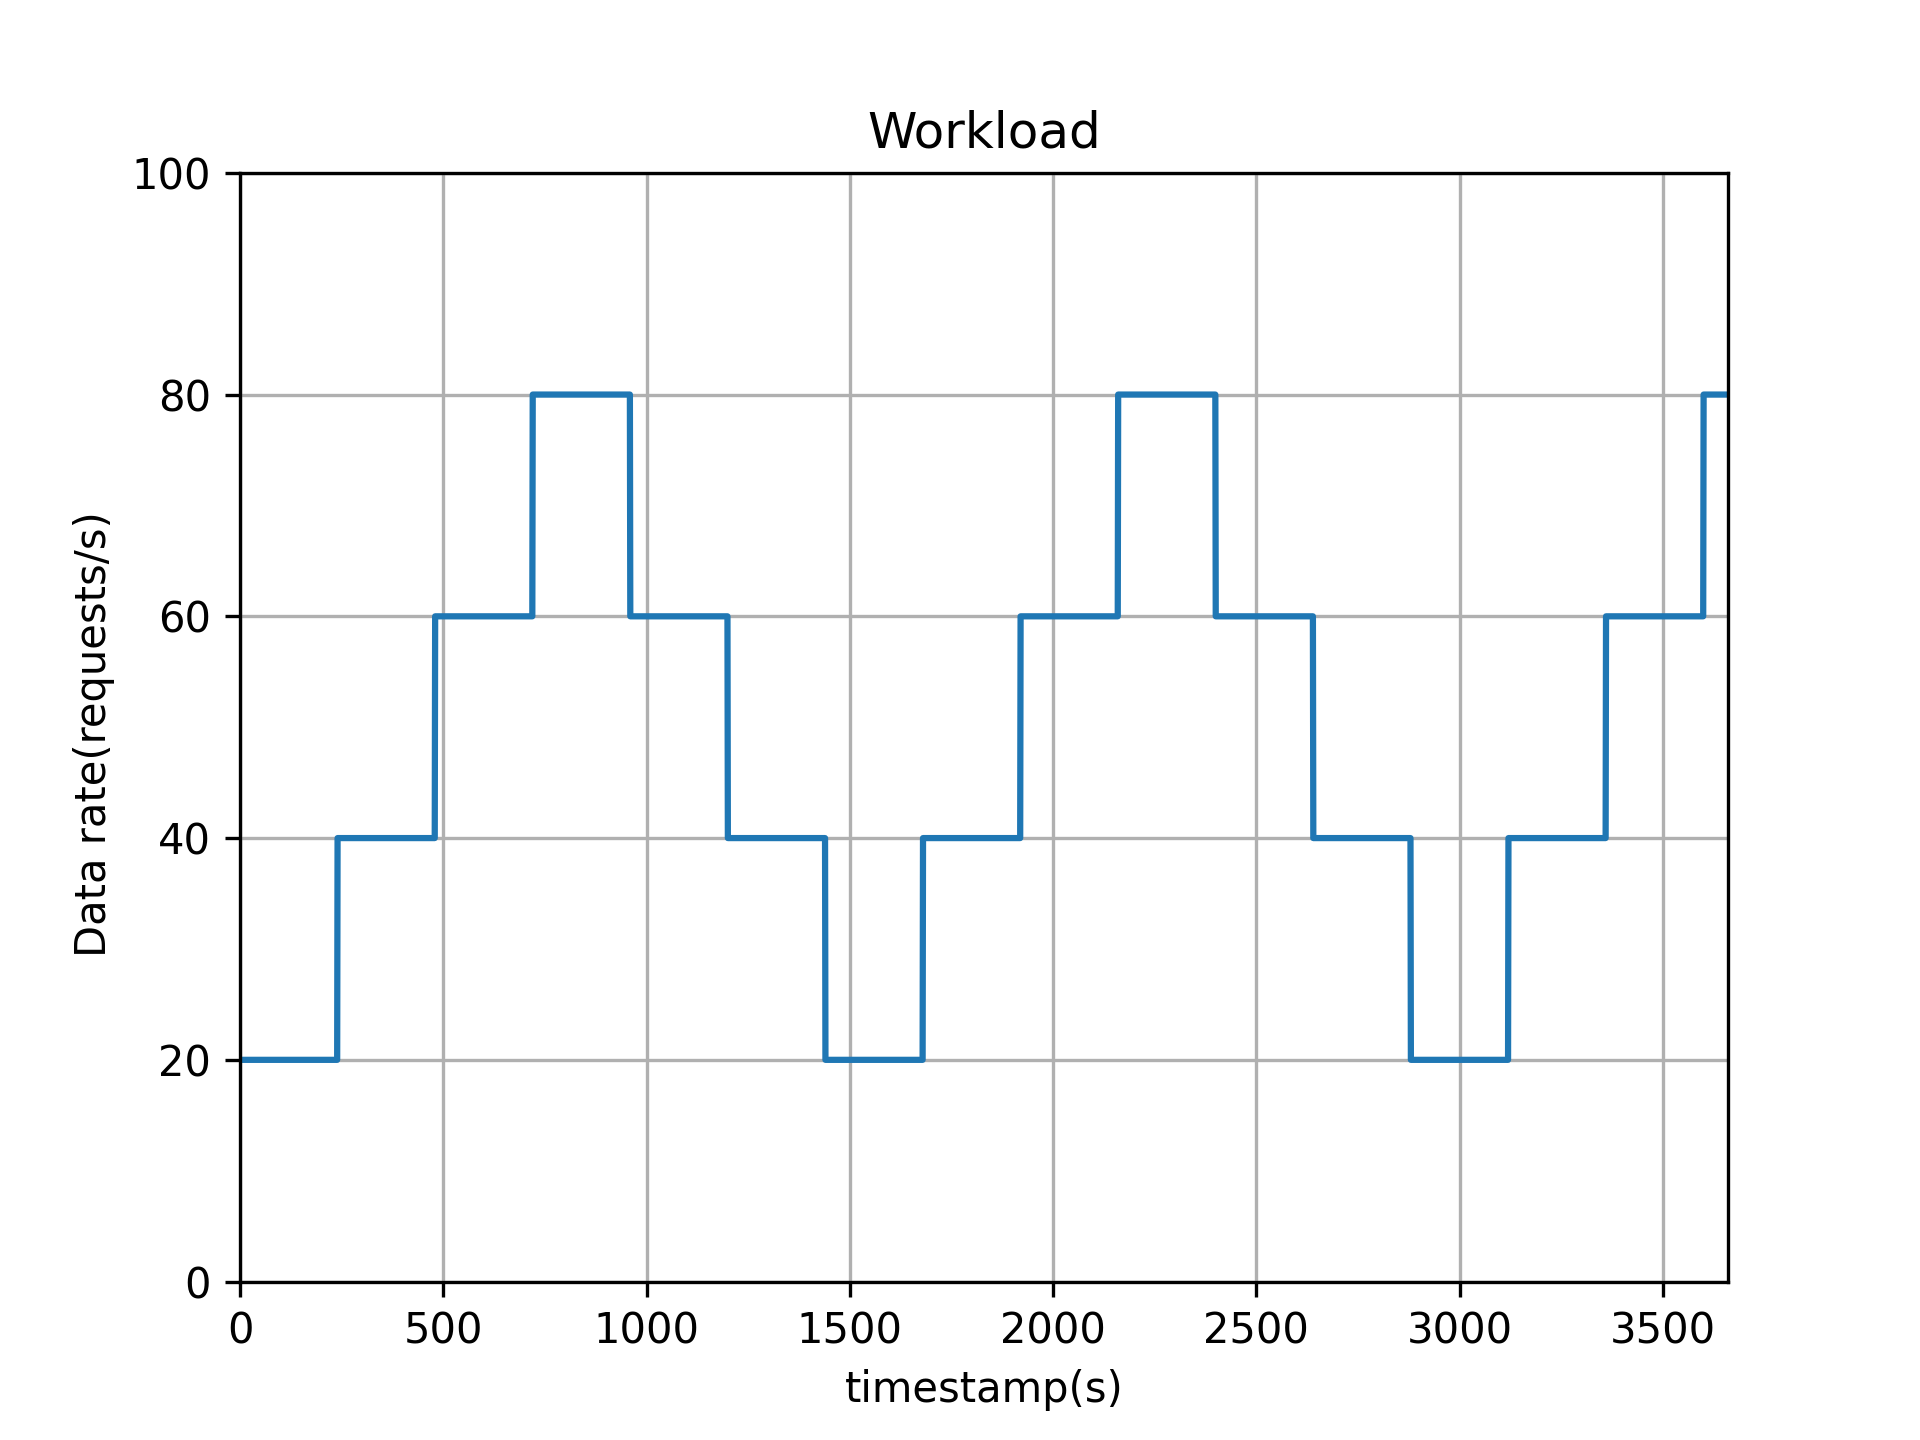
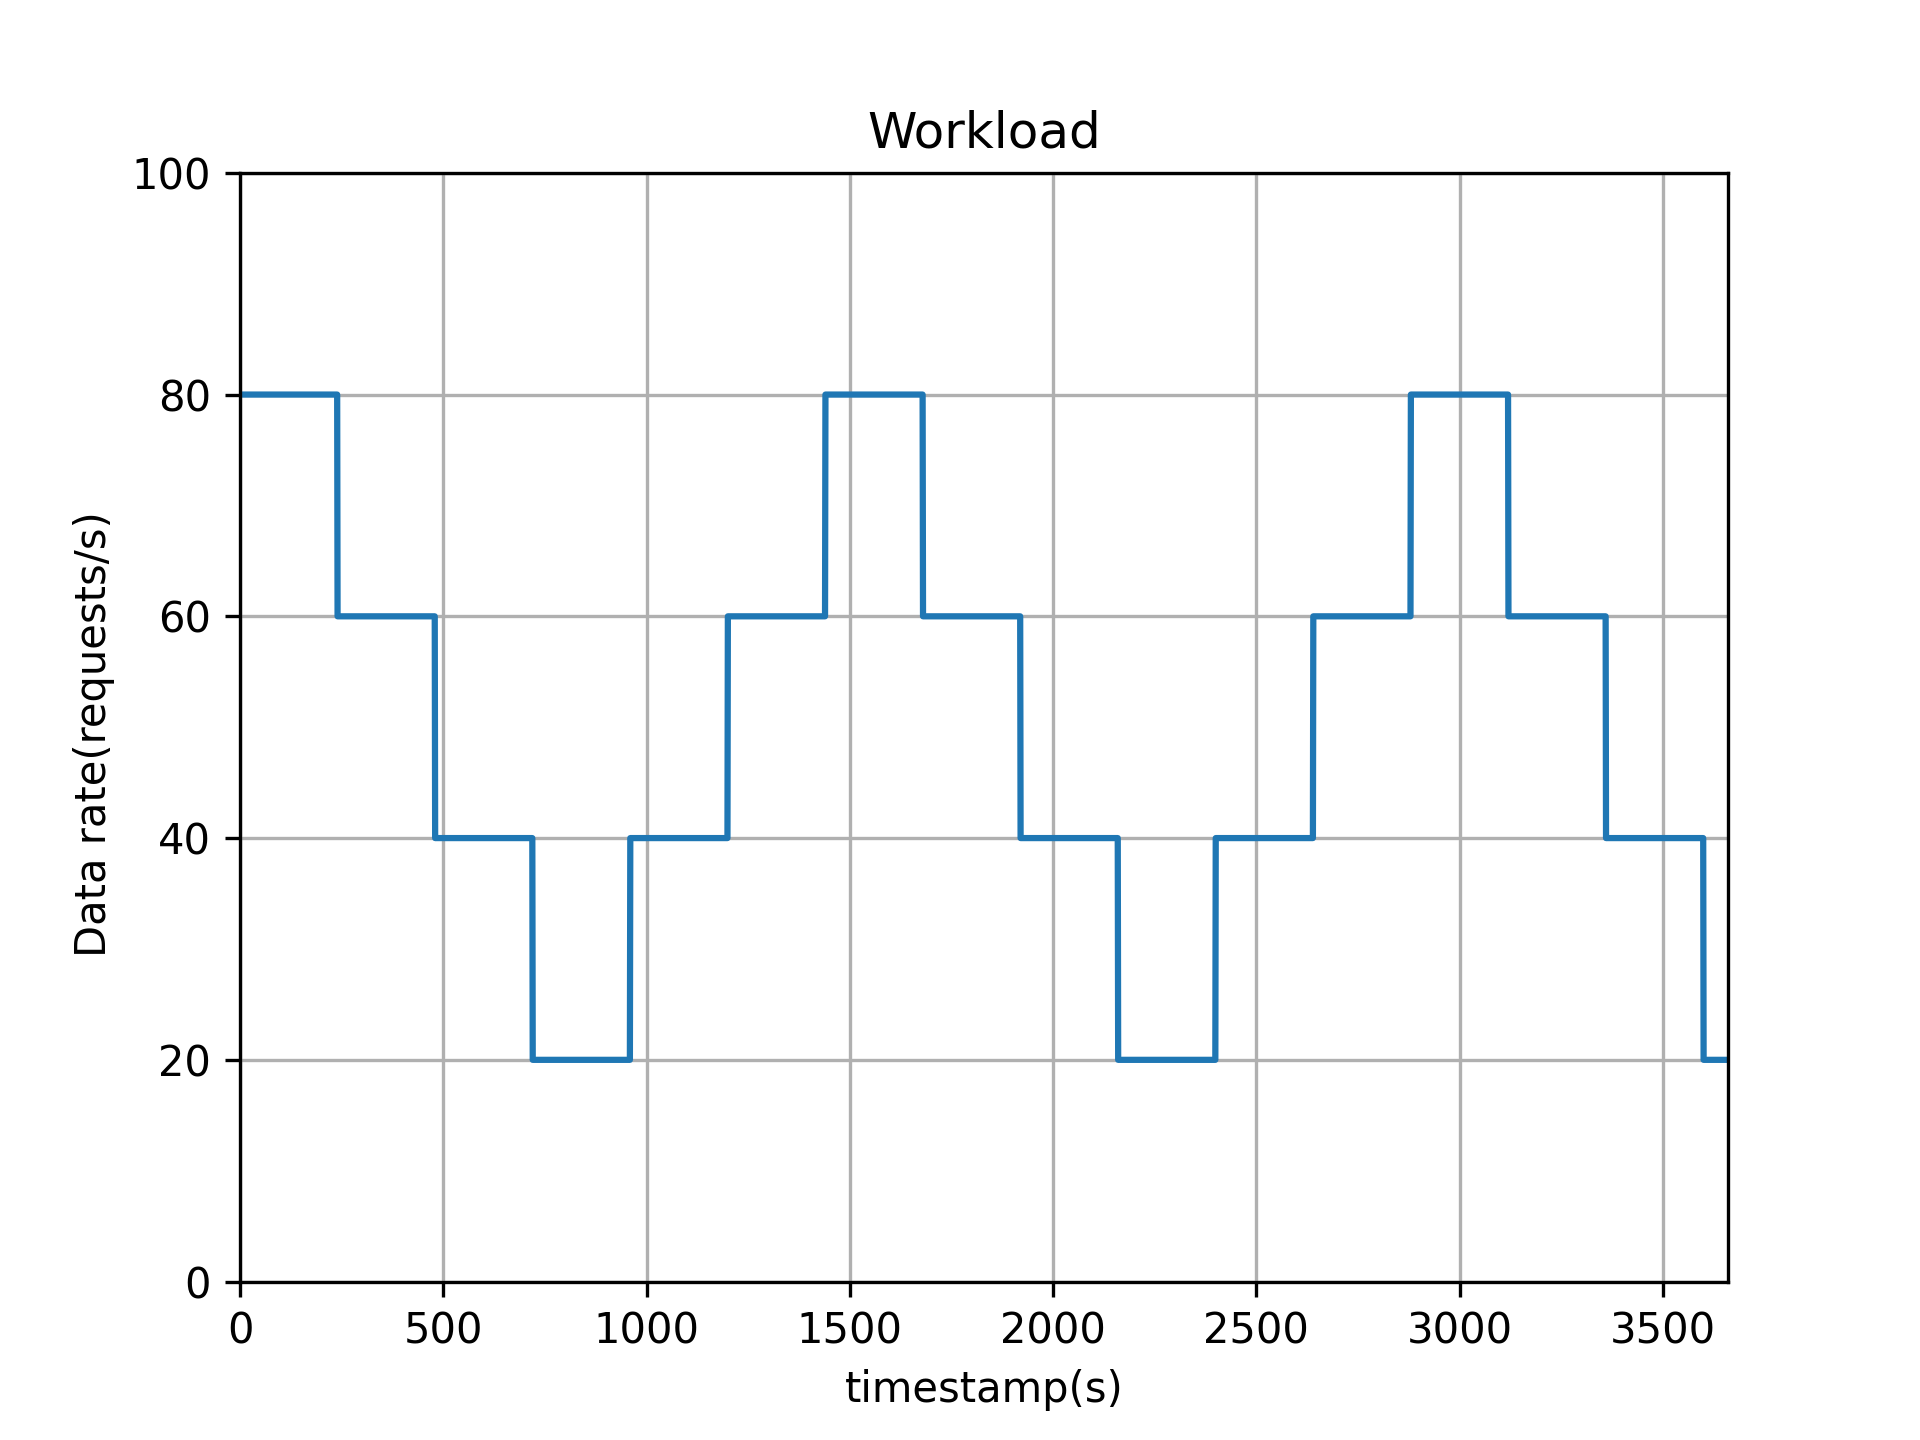
add Readme

diff --git a/matplot_paper/matplot_trajectory_threshold.py b/matplot_paper/matplot_trajectory_threshold.py
@@ -76,6 +76,70 @@ def parse(p):
 # Plot --------------------------------------
 matplotlib.rcParams.update({'font.size': 15})
 # Plot --------------------------------------
+def fig_combined_all(x, y2, y1, y3, y4, service_name):
+    # Create a figure with two subplots
+    fig, (ax4, ax3, ax2) = plt.subplots(3, 1, figsize=(10, 12), sharex=True)
+
+    ax1 = ax2.twinx()  # 在同一個 Figure 上建立第一個軸 ax1 (共享 x 軸)
+
+    line_replicas = ax2.plot(x, y1, color="green", linestyle="-.")[0]  # 在第二個軸上繪製綠色的 Replicas 圖形
+    line_cpus = ax1.plot(x, y2, color="blue", linestyle="--")[0]  # 在第一個軸上繪製藍色的 Cpus 圖形
+
+    ax2.set_xlabel("step", )  # 設定 x 軸標籤
+    ax2.set_ylabel("Replicas", labelpad=30)  # 設定第二個軸的 y 軸標籤
+    ax1.set_ylabel("Cpus",)  # 設定第一個軸的 y 軸標籤
+
+    ax2.set_xlim(0, total_episodes * step_per_episodes)  # 設定 x 軸範圍
+    ax2.set_ylim(0, 3.5)  # 設定第二個軸的 y 軸範圍
+    ax1.set_ylim(0, 1.1)  # 設定第一個軸的 y 軸範圍
+    ax1.set_yticks([0, 0.2, 0.4, 0.6, 0.8, 1.0])
+    ax2.set_yticks([0, 1, 2, 3])
+
+
+    line_replicas_color = line_replicas.get_color()
+    line_replicas_style = line_replicas.get_linestyle()
+    line_cpus_color = line_cpus.get_color()
+    line_cpus_style = line_cpus.get_linestyle()
+
+    # 建立線條圖示
+    replicas_legend = mlines.Line2D([], [], color=line_replicas_color, linestyle=line_replicas_style, label='Replicas')
+    cpus_legend = mlines.Line2D([], [], color=line_cpus_color, linestyle=line_cpus_style, label='Cpus')
+    # ax2.set_title(service_name, pad=20)
+    # Add legends to the first subplot (ax1)
+    ax2.legend(handles=[replicas_legend, cpus_legend], loc='upper center', fontsize=12, ncol=2, bbox_to_anchor=(0.5, 1.2))
+
+
+    # ------------------------------------------------
+    # Plot Cpu utilization on the second subplot (ax3)
+    ax3.plot(x, y3, color='royalblue')
+    ax3.fill_between(x, 0, y3, color='royalblue')
+    ax3.set_xlabel('Step')
+    ax3.set_ylabel('Cpu utilization(%)', labelpad=10)
+    ax3.set_ylim(0, 110)
+    ax3.set_yticks([0, 25, 50, 75, 100])
+
+    avg = statistics.mean(y3)
+    ax3.set_title(service_name + " Avg : " + str(avg), pad=20)
+    # -----------------------------------------------
+    # Plot additional data on the fourth subplot (ax4)
+    ax4.plot(x, y4, color='purple')
+    ax4.fill_between(x, 0, y4, color="purple")
+    ax4.set_ylabel("Response time(ms)", labelpad=20)
+    ax4.set_ylim(0, 50)  # Set y-axis range for the fourth subplot
+    ax4.set_yticks([0, 10, 20, 30, 40, 50])
+    ax4.set_xlabel('Step')
+
+    avg = statistics.mean(y4)
+    ax4.set_title(service_name + " Avg : " + str(avg), pad=20)
+    if service_name == "First_level_mn1":
+        Rmax = Rmax_mn1
+    else:
+        Rmax = Rmax_mn2
+    ax4.axhline(y=Rmax, color='r', linestyle='--')
+
+    plt.tight_layout()
+    plt.savefig(tmp_dir + service_name + "_Combined_all.png", dpi=300)
+    plt.show()
 def fig_add_Cpus_Replicas(x, y2, y1, service_name):
     fig, ax2 = plt.subplots(figsize=(10, 4))  # 建立一個 Figure 和第二個軸 ax2
     ax1 = ax2.twinx()  # 在同一個 Figure 上建立第一個軸 ax1 (共享 x 軸)
@@ -315,7 +379,7 @@ def parse_episods_data(episods_data, service_name):
     fig_add_Cpu_utilization(step, cpu_utilization, cpu_utilization_, service_name)
     fig_add_Resource_use(step, resource_use, resource_use_, service_name, tmp_dir)
     fig_add_reward(step, reward, reward_, service_name)
-
+    fig_combined_all(step, cpus, replicas, cpu_utilization, response_times, service_name)
 
 tmp_count = 0
 for p in path_list:

diff --git a/MPDQN.py b/MPDQN.py
@@ -19,7 +19,7 @@ data_rate = 20    # if not use_tm
 use_tm = 1  # if use_tm
 tm_path = 'request/request15.txt'  # traffic path
 # Warning !!!need to modify pdqn_v1.py loss_result_dir also
-result_dir = "./mpdqn_result/result3/evaluate1/"
+result_dir = "./pdqn_result/result3/evaluate2/"
 ## initial
 request_num = []
 # timestamp    :  0, 1, 2, , ..., 61, ..., 3601
@@ -37,6 +37,7 @@ RFID = 0  # oneM2M resource name  (Need different)
 event_mn1 = threading.Event()
 event_mn2 = threading.Event()
 event_timestamp_Ccontrol = threading.Event()
+event_monitor = threading.Event()
 
 # Need modify ip if ip change
 ip = "192.168.99.128"  # app_mn1
@@ -62,7 +63,7 @@ total_episodes = 16   # Training_episodes
 if_test = True
 if if_test:
     total_episodes = 1  # Testing_episodes
-
+monitor_period = 60
 multipass = True  # False : PDQN  / Ture: MPDQN
 
 # Exploration parameters
@@ -275,6 +276,7 @@ class Env:
         event.set()
 
         time.sleep(55)  # wait for monitor ture value
+        # event_monitor.wait()
 
         response_time_list = []
         # self.cpu_utilization = self.get_cpu_utilization()
@@ -424,6 +426,7 @@ def send_request(sensors, request_num, total_episodes):
     global change, send_finish, reset_complete
     global timestamp, use_tm, RFID
     error = 0
+    # event_monitor.clear()
     for episode in range(total_episodes):
         timestamp = 0
         print("episode: ", episode+1)
@@ -438,6 +441,9 @@ def send_request(sensors, request_num, total_episodes):
             # print('timestamp: ', timestamp)
             event_mn1.clear()  # set flag to false
             event_mn2.clear()
+            # if ((timestamp + 6) % monitor_period == 0):
+            #     event_monitor.set()
+            # event_monitor.clear()
             if ((timestamp) % 60) == 0 and timestamp!=0 :  # every 60s scaling
                 print("wait mn1 mn2 step and service scaling ...")
                 event_mn1.wait()  # if flag == false : wait, else if flag == True: continue

diff --git a/matplot_trajectory_MPDQN.py b/matplot_trajectory_MPDQN.py
@@ -15,13 +15,13 @@ total_episodes = 16
 step_per_episodes = 60
 
 # evaluation
-if_evaluation = 0
+if_evaluation = 1
 if if_evaluation:
     total_episodes = 1
 # tmp_str = "result2/result_cpu" # result_1016/tm1
 #tmp_dir = "pdqn_result/result2"
 # tmp_dir = "offline/database4"
-tmp_dir = "mpdqn_result/result/"
+tmp_dir = "mpdqn_result/result3/evaluate1/"
 path1 = tmp_dir + "/app_mn1_trajectory.txt"
 path2 = tmp_dir + "/app_mn2_trajectory.txt"
 

diff --git a/matplot_paper/matplot_trajectory_MPDQN.py b/matplot_paper/matplot_trajectory_MPDQN.py
@@ -23,7 +23,7 @@ if if_evaluation:
 # tmp_str = "result2/result_cpu" # result_1016/tm1
 #tmp_dir = "pdqn_result/result2"
 # tmp_dir = "offline/database4"
-tmp_dir = "/home/user/MPDQN-Scalable_OneM2M_RL/mpdqn_result/result/evaluate2/"
+tmp_dir = "/home/user/MPDQN-Scalable_OneM2M_RL/mpdqn_result/result3/evaluate2/"
 path1 = tmp_dir + "/app_mn1_trajectory.txt"
 path2 = tmp_dir + "/app_mn2_trajectory.txt"
 

diff --git a/request/matplot_request.py b/request/matplot_request.py
@@ -3,7 +3,7 @@ import matplotlib.pyplot as plt
 
 simulation_time = 3660  # 300 s
 
-path1 = "request14.txt"
+path1 = "request15.txt"
 
 path_list = [path1]
 

diff --git a/README.md b/README.md
@@ -1,5 +1,8 @@
 ## 此版本為Paper版本，送request時沒有用thread
-## 另一版本送request有用thread :https://github.com/forealasting/MPDQN-Scalable_OneM2M_RL_for_INTEL
+* 另一版本送request有用thread :https://github.com/forealasting/MPDQN-Scalable_OneM2M_RL_for_INTEL
+* 修改地方: Function: **def send_request**(sensors, request_num, total_episodes):...
+
+
 
 ## Run Code
 
@@ -68,21 +71,6 @@ monitor_period = 30     # Adjust the monitor period as needed
 simulation_time = 3600  # Adjust the simulation time as needed
 ```
 
-### Manual Action Configuration
-
-If you want to manually set actions for evaluation or debugging, adjust the following settings:
-
-```python
-manual_action = 0  # Set to 0 if not using manual actions
-
-# Manual action settings for replica 1
-manual_action_replica1 = 1
-manual_action_cpus1 = 0.8
-
-# Manual action settings for replica 2
-manual_action_replica2 = 1
-manual_action_cpus2 = 0.8
-```
 
 ### Learning Parameters
 
